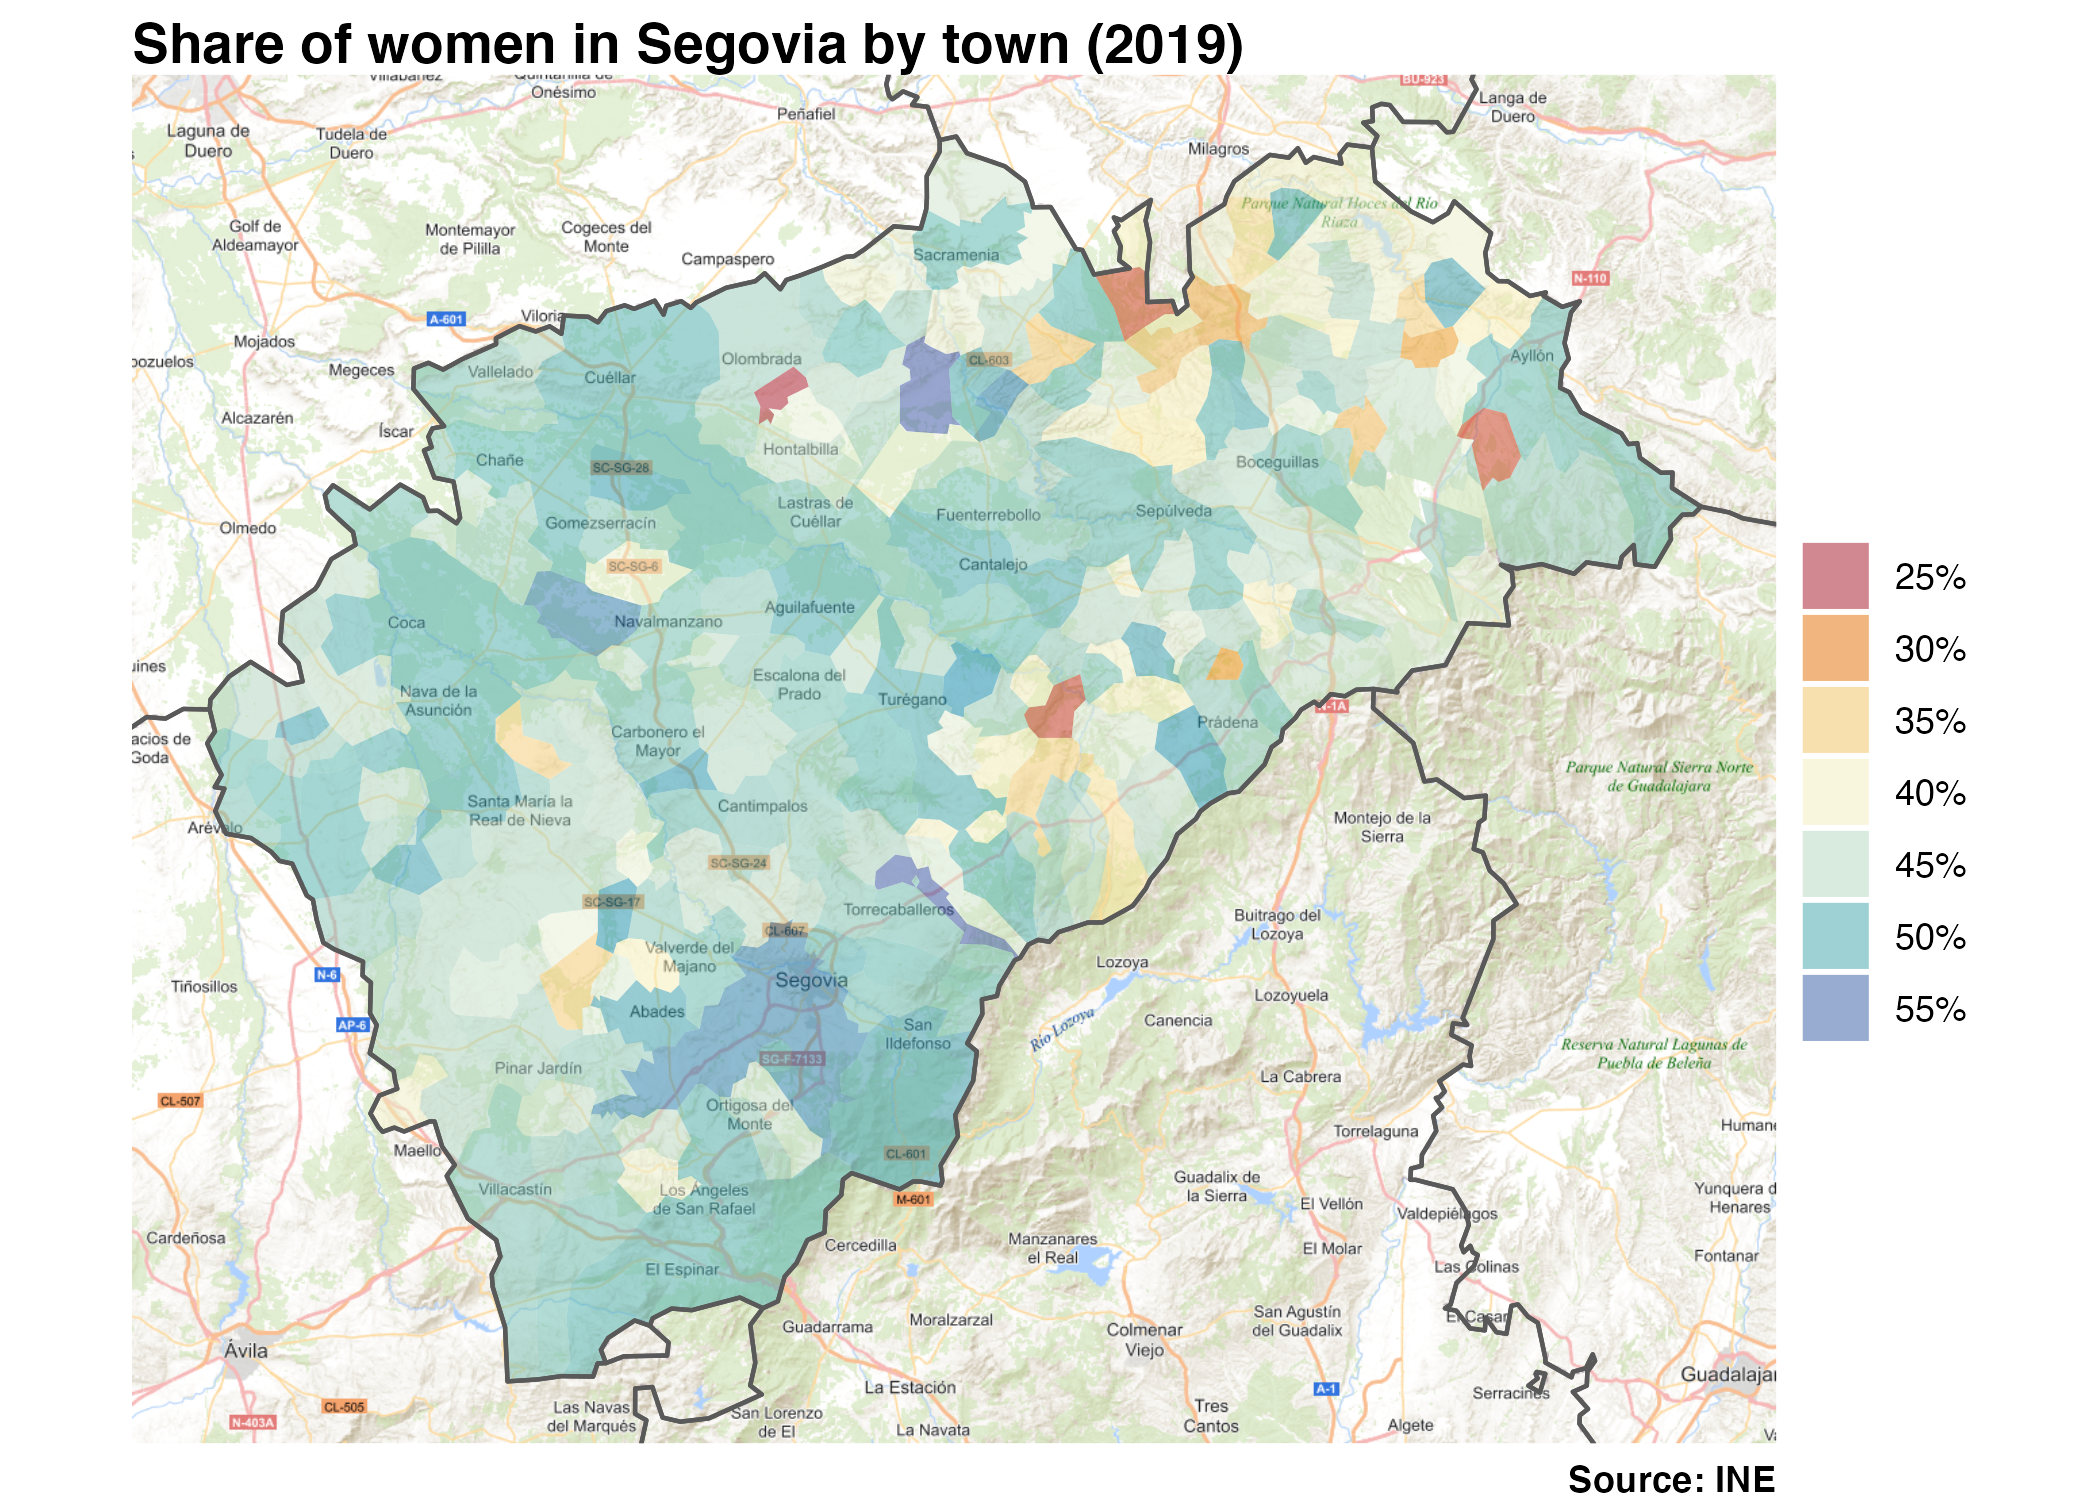
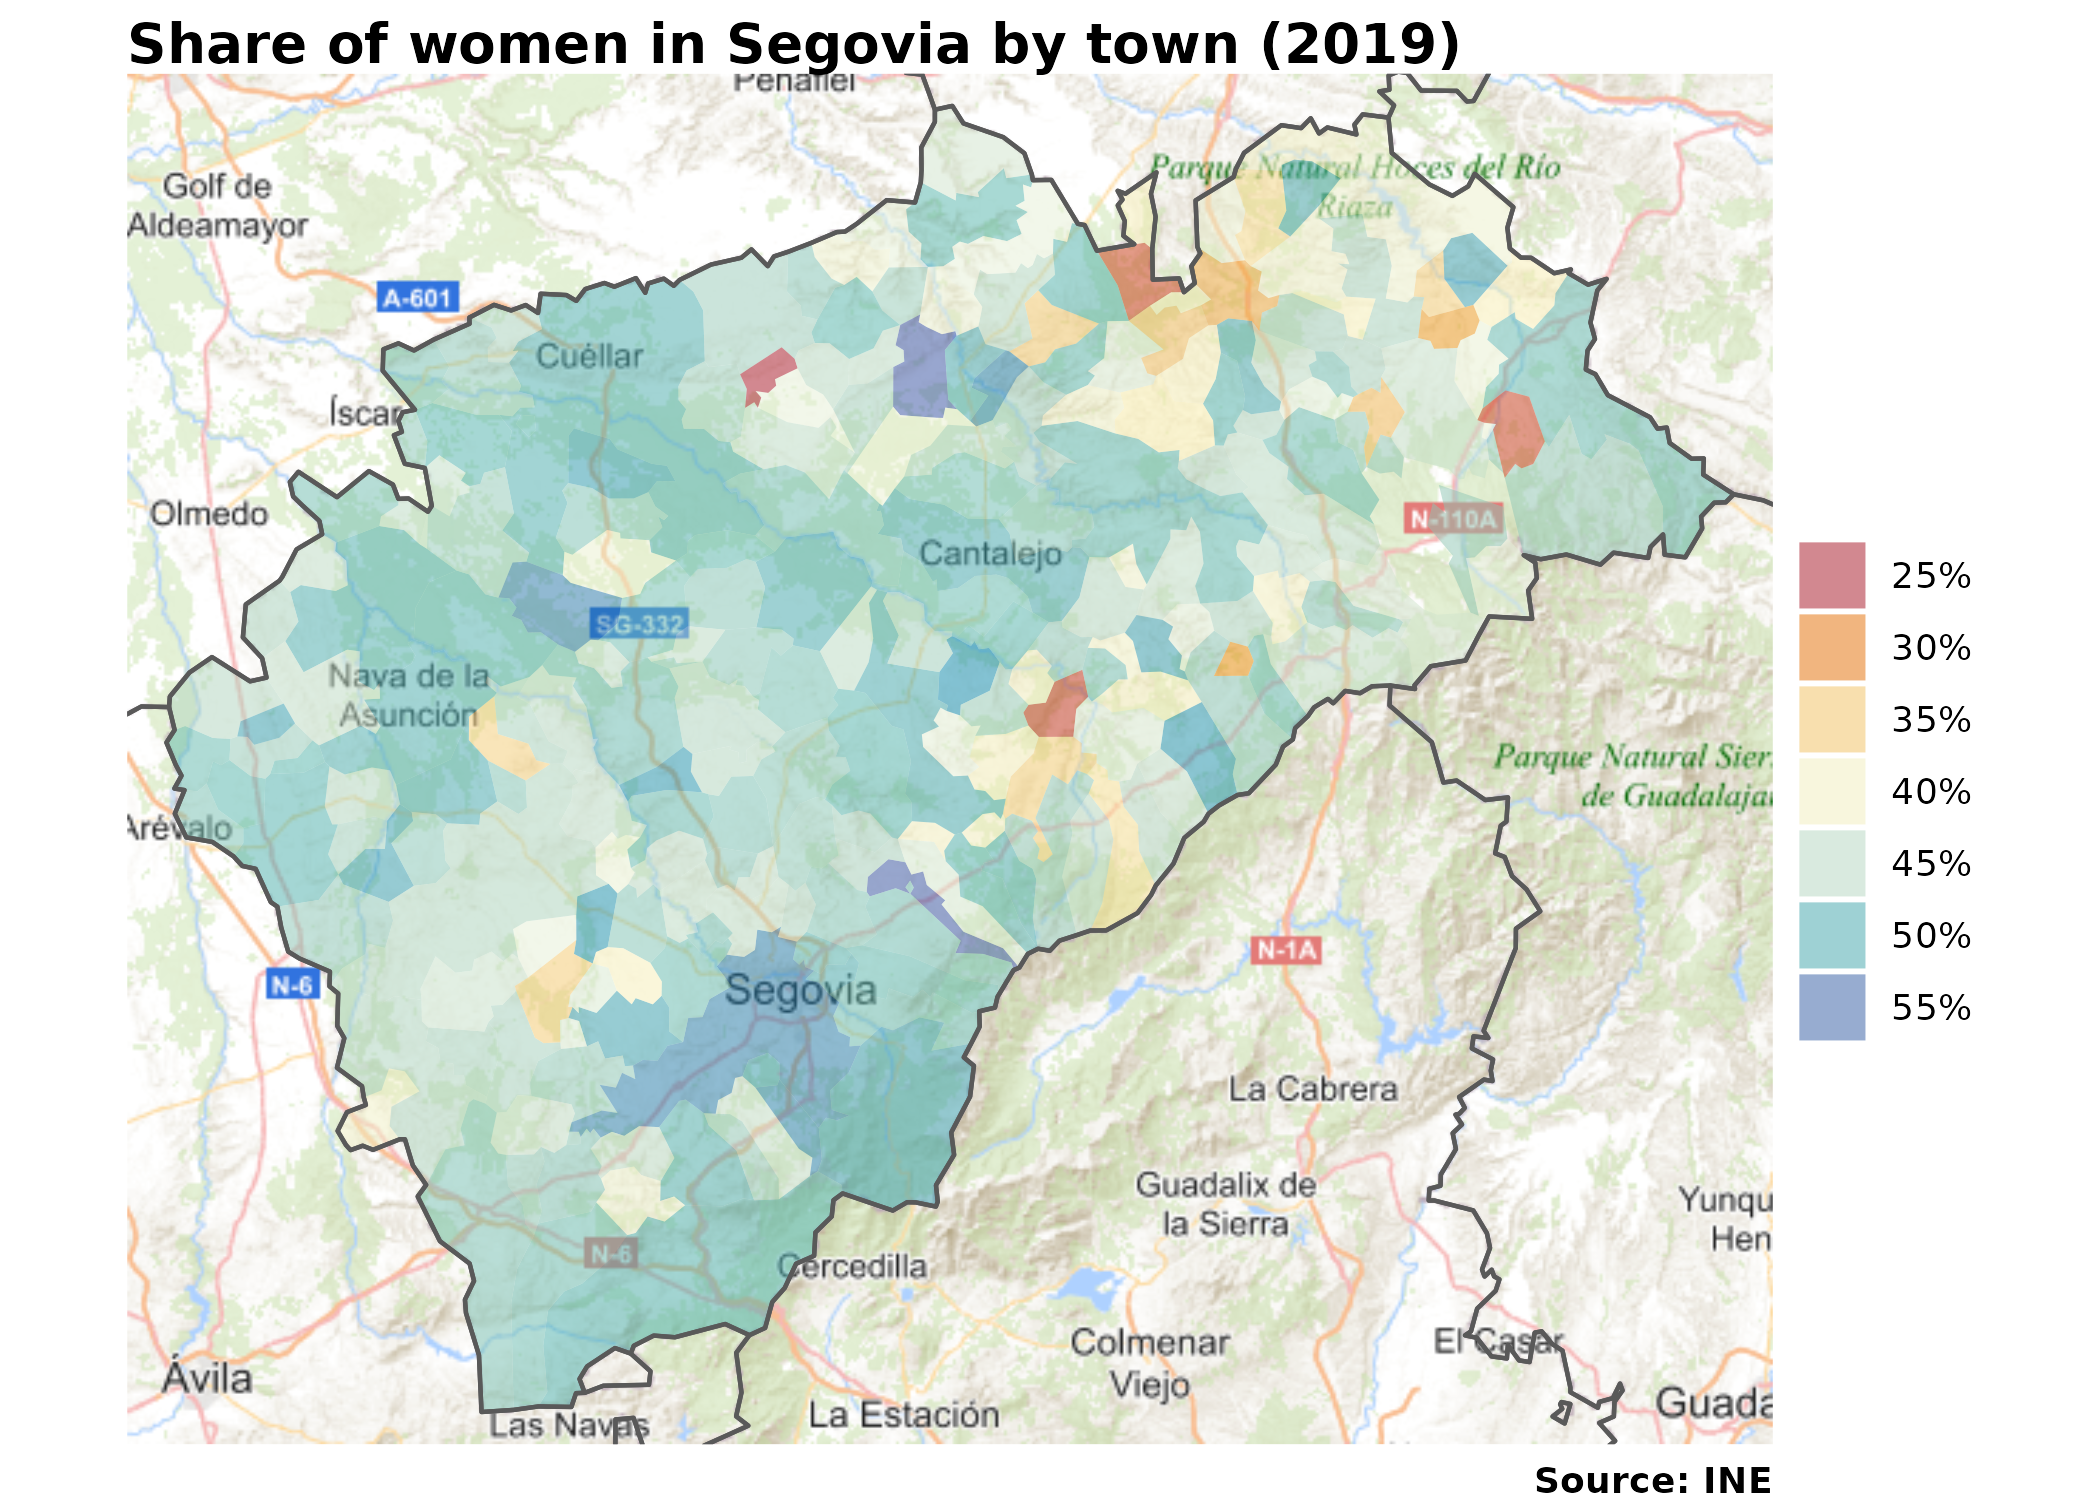
Update docs with pkgdev

diff --git a/README.md b/README.md
@@ -63,6 +63,7 @@ install_github("rOpenSpain/mapSpain", dependencies = TRUE)
 This script highlights some features of **mapSpain** :
 
 ``` r
+
 library(mapSpain)
 
 census <- mapSpain::pobmun19
@@ -121,6 +122,7 @@ ggplot(CCAA_sf) +
 You can combine `sf` objects with static tiles
 
 ``` r
+
 # Get census
 census <- mapSpain::pobmun19
 census$porc_women <- census$women / census$pob19
@@ -139,8 +141,7 @@ shape_pop <- merge(shape,
 tile <-
   esp_getTiles(shape_pop,
     type = "IGNBase.Todo",
-    zoom = 10,
-    bbox_expand = .1
+    zoommin = 1
   )
 
 # Plot
@@ -187,6 +188,7 @@ installed as a dependency when you installed **mapSpain**. A basic
 example:
 
 ``` r
+
 library(giscoR)
 
 # Set the same resolution for a perfect fit
@@ -248,11 +250,11 @@ it will load it, speeding up the process.
 
 Some packages recommended for visualization are:
 
--   [**tmap**](https://github.com/r-tmap/tmap)
--   [**mapsf**](https://riatelab.github.io/mapsf/)
--   [**ggplot2**](https://github.com/tidyverse/ggplot2) +
-    [**ggspatial**](https://github.com/paleolimbot/ggspatial)
--   [**leaflet**](https://rstudio.github.io/leaflet/)
+- [**tmap**](https://github.com/r-tmap/tmap)
+- [**mapsf**](https://riatelab.github.io/mapsf/)
+- [**ggplot2**](https://github.com/tidyverse/ggplot2) +
+  [**ggspatial**](https://github.com/paleolimbot/ggspatial)
+- [**leaflet**](https://rstudio.github.io/leaflet/)
 
 ## Citation
 
@@ -267,7 +269,7 @@ A BibTeX entry for LaTeX users is:
     @Manual{R-mapspain,
       title = {{mapSpain}: Administrative Boundaries of Spain},
       year = {2022},
-      version = {0.6.2},
+      version = {0.6.2.9000},
       author = {Diego Hernangómez},
       doi = {10.5281/zenodo.5366622},
       url = {https://ropenspain.github.io/mapSpain/},
